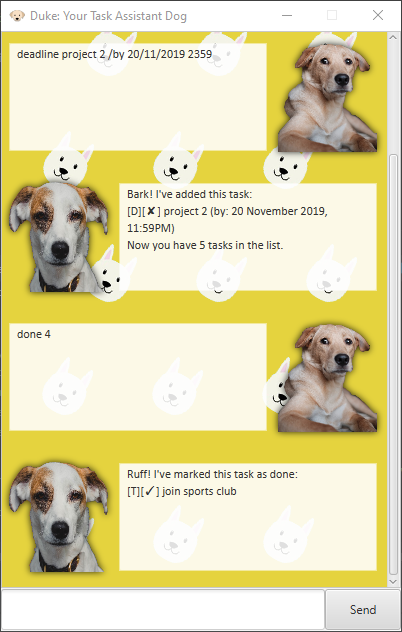
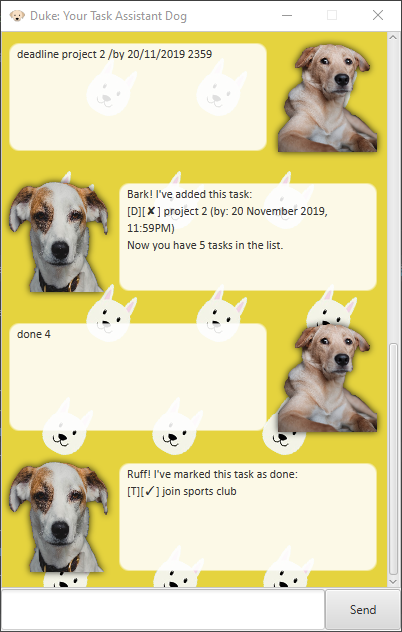
Added rounded corners to text box
Added rounded corners to TextArea.
Update Ui image to reflect changes.

diff --git a/src/main/resources/view/application.css b/src/main/resources/view/application.css
@@ -5,18 +5,26 @@
 #text {
     -fx-background-color: transparent;
     -fx-border-color: transparent;
+    -fx-border-radius: 10;
+    -fx-background-radius: 10;
 }
 
 #text .scroll-pane {
     -fx-background-color: rgba(255, 255, 255, 0.5);
+    -fx-border-radius: 10;
+    -fx-background-radius: 10;
 }
 
 #text .scroll-pane .viewport {
     -fx-background-color: rgba(255, 255, 255, 0.5);
+    -fx-border-radius: 10;
+    -fx-background-radius: 10;
 }
 
 #text .scroll-pane .content {
     -fx-background-color: rgba(255, 255, 255, 0.5);
+    -fx-border-radius: 10;
+    -fx-background-radius: 10;
 }
 
 
